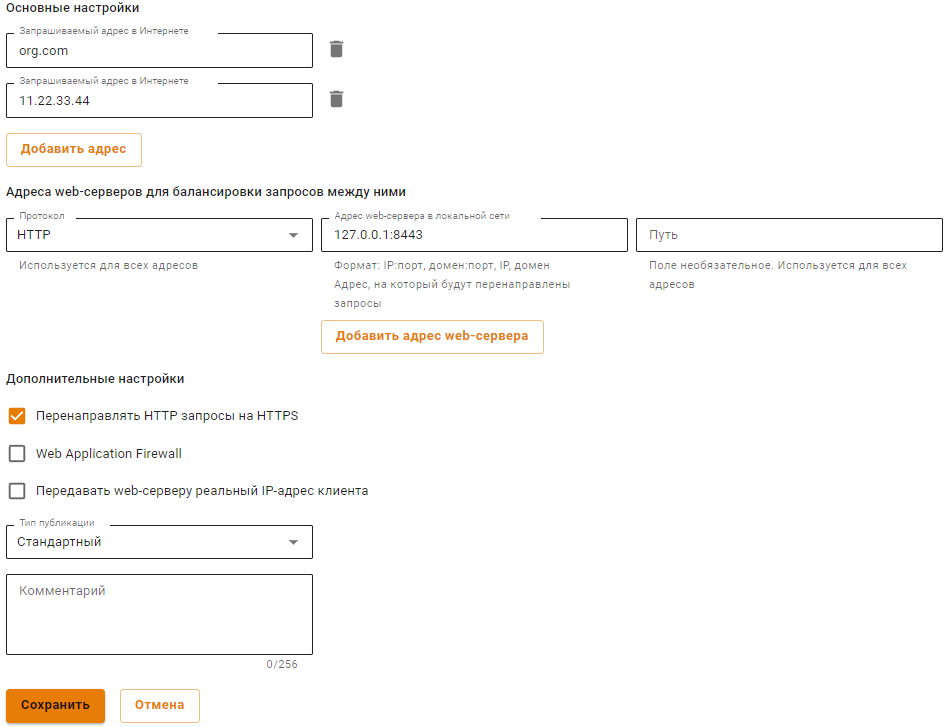
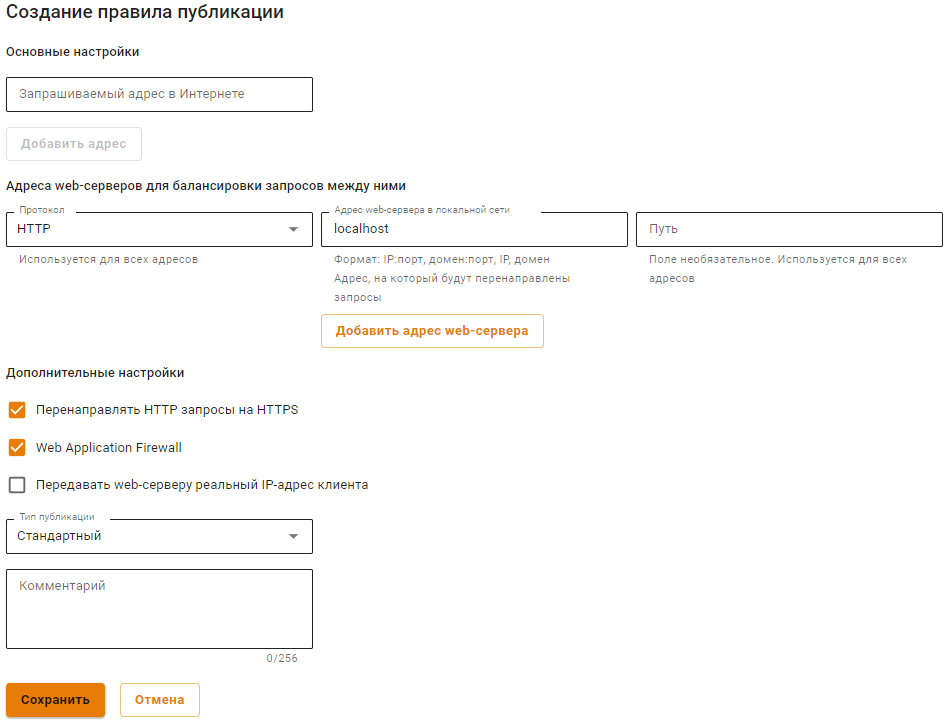
ICS-30232 УТМ. Дополнить док-ю информацией о WAF

diff --git a/settings/services/reverse-proxy.md b/settings/services/reverse-proxy.md
@@ -41,12 +41,14 @@ description: >-
 
 ### Дополнительные настройки
 
-* Функция **Перенаправлять HTTP запросы на HTTPS** используется в случае, если ваш сайт работает только по протоколу HTTPS, но при этом не хотите терять посетителей, обратившихся к вашему сайту по HTTP;
-* Функция **Web Application Firewall** позволяет защитить опубликованные ресурсы с помощью Ideco UTM веб-приложения от различного вида атак (включая атаки SQLi, XSS, DoS и другие)$
+* Функция **Перенаправлять HTTP запросы на HTTPS** используется в случае, если ваш сайт работает только по протоколу HTTPS, но при этом вы не хотите терять посетителей, обратившихся к вашему сайту по HTTP;
+* Функция **Web Application Firewall** позволяет защитить опубликованные ресурсы с помощью Ideco UTM от различного вида атак (включая атаки SQLi, XSS, DoS и другие);
 * При включении функции **Передавать web-серверу реальный IP-адрес клиента** публичный IP-адрес клиента при обратном проксировании не заменяется на адрес UTM.
   
 {% hint style="info" %}
-**Web Application Firewall** анализирует запросы к сайту и блокирует атаки на уязвимые компоненты веб-приложения (в частности типы атак, входящие в [OWASP TOP-10](https://owasp.org/www-project-top-ten/)). При активации данного модуля также будут блокироваться злоумышленники, ведущие сканирование сайта на уязвимости, с помощью модуля защиты от brute force атак.
+**Web Application Firewall (WAF)** анализирует запросы к сайту и блокирует атаки на уязвимые компоненты веб-приложения (в частности типы атак, входящие в [OWASP TOP-10](https://owasp.org/www-project-top-ten/)). При активации данного модуля также будут блокироваться злоумышленники, ведущие сканирование сайта на уязвимости, с помощью модуля защиты от brute force атак.
+
+Не рекомендуем использовать проброс веб-интерфейса UTM через WAF, так как при попытке входа пользователь может быть заблокирован средствами WAF.
 {% endhint %} 
 
 * Поле **Тип публикации** позволяет выбрать один из типов: **Стандартный** и **Outlook Web Access**. Тип **Outlook Web Access** используется для публикации Microsoft Exchange.
